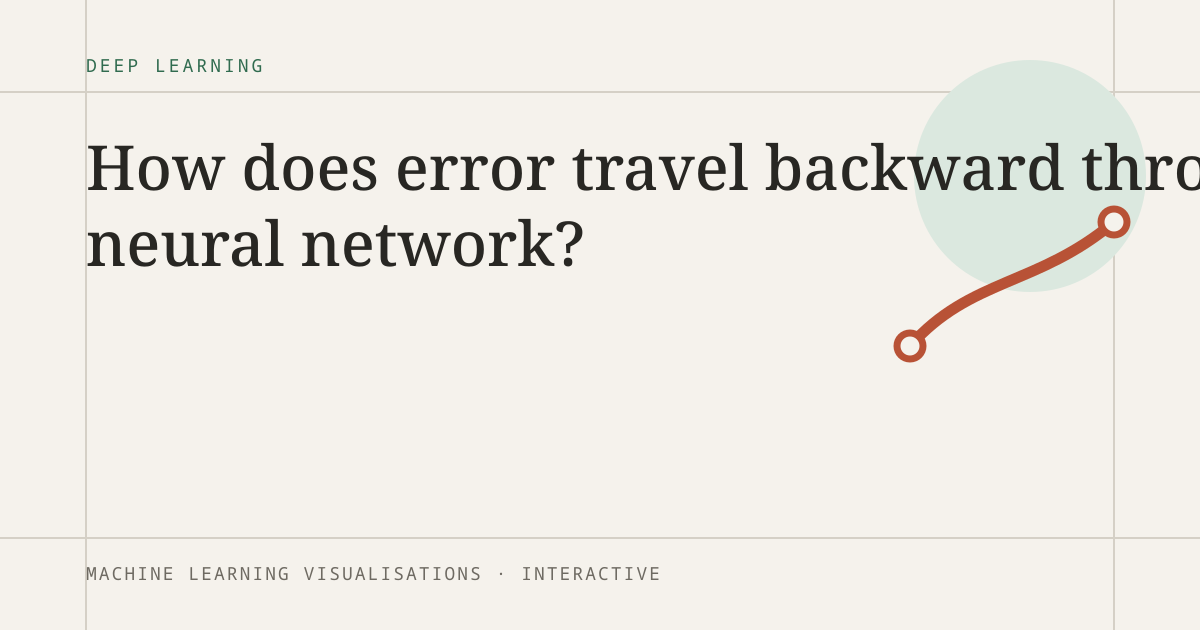
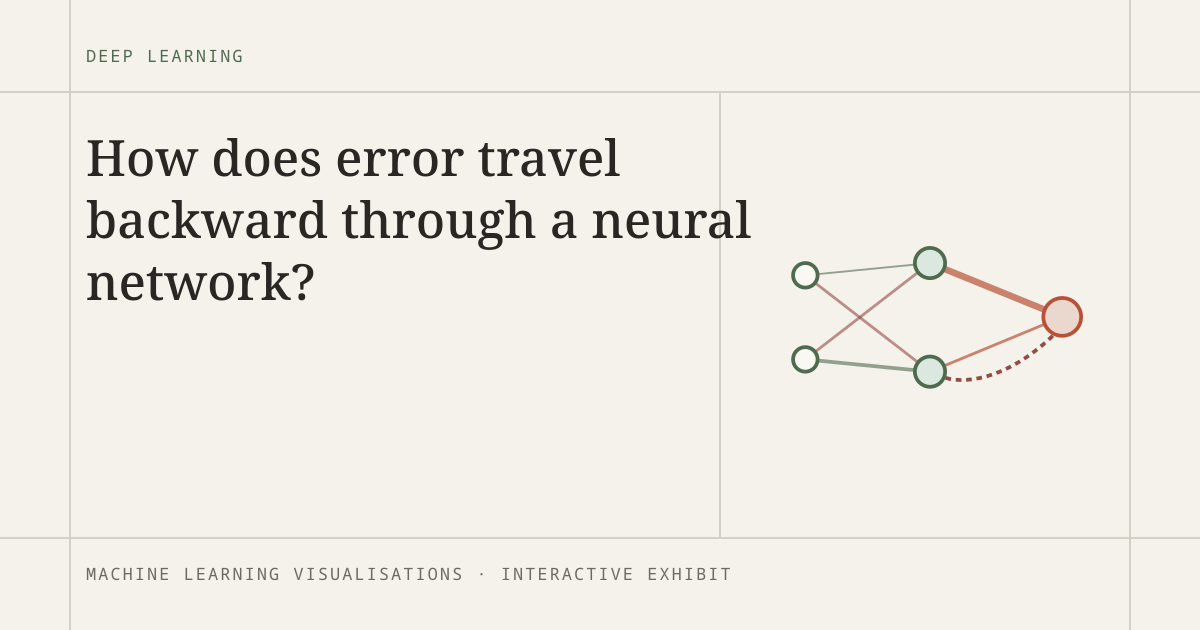
give social previews distinct visual arguments

diff --git a/docs/website-roadmap.md b/docs/website-roadmap.md
@@ -23,6 +23,7 @@ Updated: 2026-07-13
 | A1: Attention fidelity | Complete | Attention scores and softmax weights are computed from disclosed tiny query/key vectors. Shareable controls, four reviewed signature states, responsive layouts, and browser restoration are verified. |
 | A2: Attention comparison | Complete | Changing the sentence ending retains the previous computed distribution as per-token markers and names the largest weight shifts while holding head and query constant. The comparison, URL restoration, responsive layout, and browser behavior are verified. |
 | K1: Kernel fidelity | Complete | The exhibit now frames one explicit radial feature map, connects a computed horizontal threshold to its exact circular input-space boundary, distinguishes view interpolation from model parameters, preserves orbit inspection, and restores the view from the URL. Four signature states and the full repository gate are verified. |
+| S1: Social visual arguments | Complete | All 16 public Open Graph images now use route-specific mechanism diagrams instead of one generic decorative motif. Registry alignment, raster dimensions, distinct output, metadata, and the static build are verified. |
 
 Update this tracker in the same change that completes or materially advances a
 roadmap item. A release is complete only after its completion criteria have been
@@ -138,6 +139,15 @@ Updated: 2026-07-13
   export, every route budget, 76 Chromium checks, and all four Firefox and
   WebKit smoke checks; review four desktop signatures and the 390×844 flat
   separator directly.
+- [x] Replace the shared decorative Open Graph motif with deterministic
+  route-specific diagrams derived from each exhibit's visual argument.
+- [x] Keep social questions and topics aligned with the exhibit registry; fail
+  tests when a route lacks an authored motif or committed 1200×630 raster.
+- [x] Review the complete 16-image contact sheet plus the longest headline and
+  flagship previews at full resolution.
+- [x] Verify social presentation with 174 unit/component tests, lint, the
+  static export, every route budget, and the Chromium canonical/social metadata
+  assertion.
 
 ### Release 1 implementation log
 
